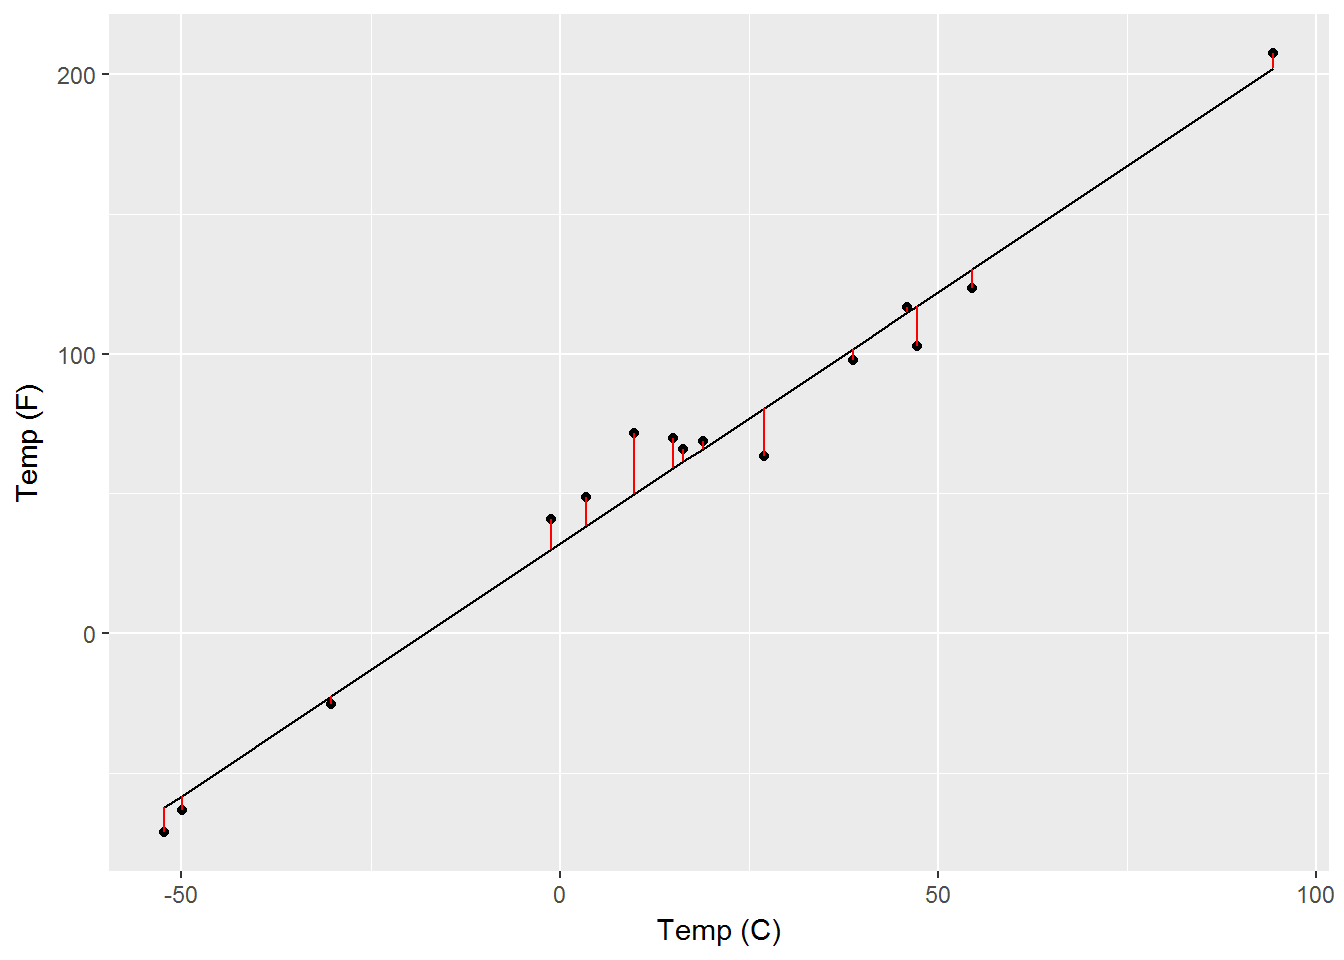
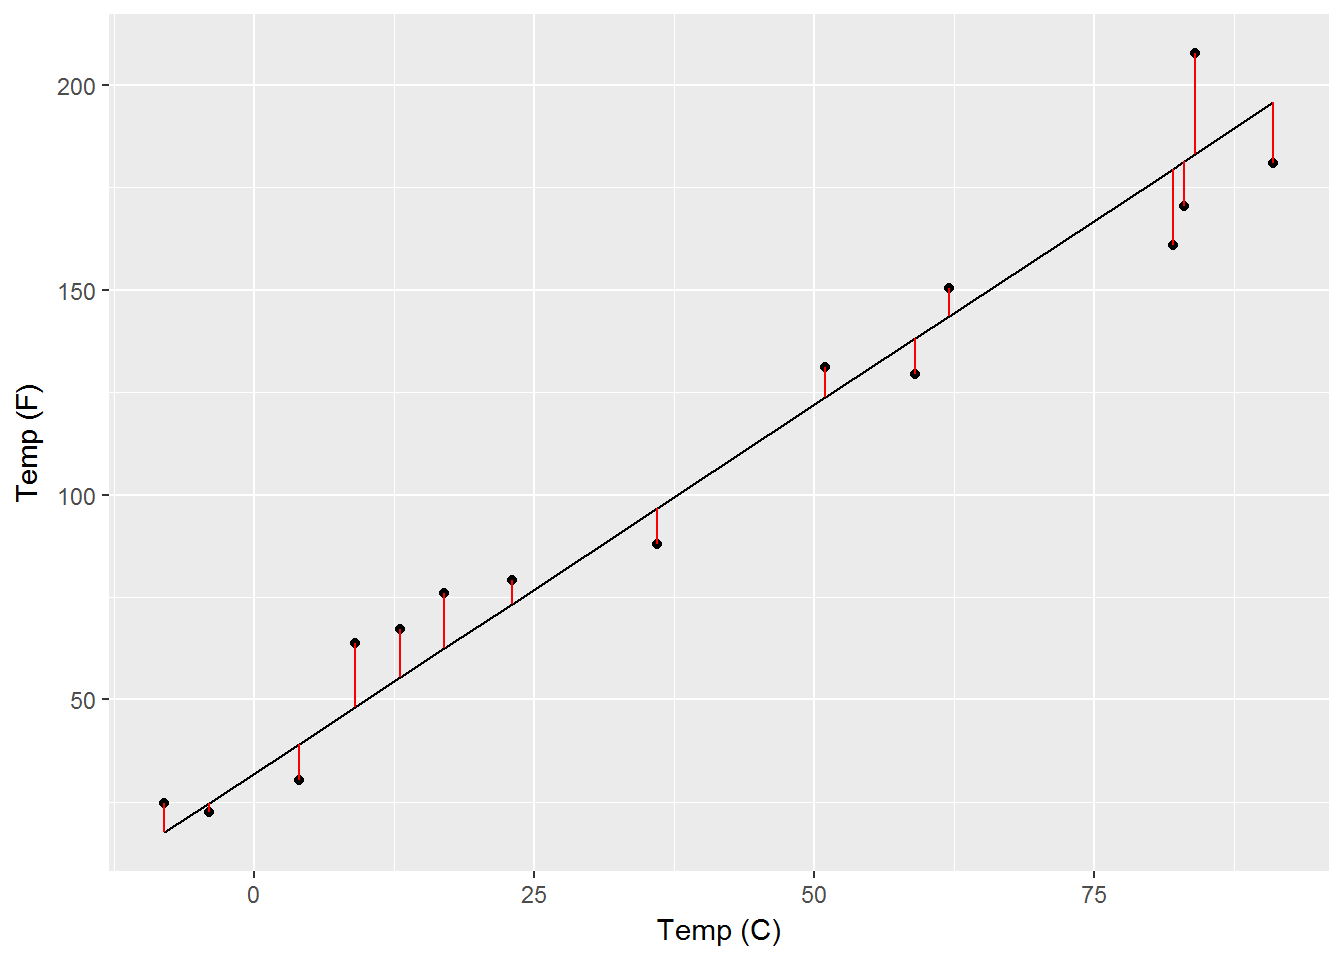
rewrote part of lin reg intro

diff --git a/smml/_book/lin-reg.html b/smml/_book/lin-reg.html
@@ -25,7 +25,7 @@
 <meta name="author" content="Michoel Snow">
 
 
-<meta name="date" content="2017-07-27">
+<meta name="date" content="2017-07-28">
 
   <meta name="viewport" content="width=device-width, initial-scale=1">
   <meta name="apple-mobile-web-app-capable" content="yes">
@@ -100,7 +100,9 @@ code > span.in { color: #60a0b0; font-weight: bold; font-style: italic; } /* Inf
 
 <ul class="summary">
 <li class="chapter" data-level="1" data-path="index.html"><a href="index.html"><i class="fa fa-check"></i><b>1</b> bibliography: [book.bib, packages.bib]</a></li>
-<li class="chapter" data-level="2" data-path="lin-reg.html"><a href="lin-reg.html"><i class="fa fa-check"></i><b>2</b> Linear Regression</a></li>
+<li class="chapter" data-level="2" data-path="lin-reg.html"><a href="lin-reg.html"><i class="fa fa-check"></i><b>2</b> Linear Regression</a><ul>
+<li class="chapter" data-level="2.1" data-path="lin-reg.html"><a href="lin-reg.html#overview"><i class="fa fa-check"></i><b>2.1</b> Overview</a></li>
+</ul></li>
 <li class="chapter" data-level="3" data-path="literature.html"><a href="literature.html"><i class="fa fa-check"></i><b>3</b> Literature</a></li>
 </ul>
 
@@ -121,108 +123,86 @@ code > span.in { color: #60a0b0; font-weight: bold; font-style: italic; } /* Inf
             <section class="normal" id="section-">
 <div id="lin_reg" class="section level1">
 <h1><span class="header-section-number">2</span> Linear Regression</h1>
-<p>Almst all supervised models relate one or more input variables, <span class="math inline">\(X_1,X_2, \ldots , X_p\)</span>, to an output variable, <span class="math inline">\(Y\)</span>. The general equation for a supervised model takes the form <span class="math display">\[Y = f(X)\]</span>. The simplest method with which to combine the inputs <span class="math inline">\(X\)</span> is through a linear combination, namely addition. When dealing with a numerical output, we’ll deal with a different type of output in chapter <strong>NEED CHAPTER NAME</strong>, this problem is termed regression. Before tackling the general form of the model let’s take a look at the example where there is only a single input variable, termed simple linear regression. Plotted in the figure below are 5 random temperature values read from a celsius thermometer on the X axis and from a farenheit thermometer on the Y axis.</p>
+<div id="overview" class="section level2">
+<h2><span class="header-section-number">2.1</span> Overview</h2>
+<p>Almst all supervised models relate one or more input variables, <span class="math inline">\(X_1,X_2, \ldots , X_p\)</span>, to an output variable, <span class="math inline">\(Y\)</span>. The general equation for a supervised model takes the form <span class="math display">\[Y = f(X)\]</span>. The simplest method with which to combine the inputs <span class="math inline">\(X\)</span> is through a linear combination, namely addition. When dealing with a numerical output, we’ll deal with a different type of output in chapter <strong>NEED CHAPTER NAME</strong>, this problem is termed regression, hence the name linear regression. Before tackling the general form of the model let’s take a look at the example where there is only a single input variable, termed simple linear regression. Plotted in the figure below are 15 random temperature values read from an accurate celsius thermometer on the X axis and from a slightly less accurate farenheit thermometer on the Y axis.</p>
 <p><img src="_main_files/figure-html/TmpPnt-1.png" width="672" style="display: block; margin: auto;" /></p>
-<p>There is an obvious a linear relationship between the values on the X and Y axes, i.e., as the temperature in Celsius increases the temperature in Farenheit increases a proportional amount, and if you remember the formula to convert between the two is <span class="math inline">\(F = \dfrac{9}{5}\cdot C + 32\)</span>. Converting this formulation into our nomenclature we almost get the general formula for simple linear regression <span class="math display">\[Y \approx a_0 + a_1 \cdot X_1\]</span> I am writing the relationship between the input and output variables as approxiamtely, because the readings were not completely accurate. This is very easy to see if I overlay on top of the previous plot a line generated from the equation <span class="math inline">\(F = \dfrac{9}{5}\cdot C + 32\)</span>.</p>
+<p>There is an obvious a linear relationship between the values on the X and Y axes, i.e., as the temperature in Celsius increases the temperature in Farenheit increases a proportional amount, and if you remember the formula to convert between the two is <span class="math inline">\(F = \dfrac{9}{5}\cdot C + 32\)</span>. Converting this formulation into our nomenclature gives the formula for simple linear regression</p>
+<span class="math display" id="eq:SimpLinReg">\[\begin{equation} 
+  Y = a_0 + a_1 \cdot X_1
+  \tag{2.1}
+\end{equation}\]</span>
+<p>Where <span class="math inline">\(Y\)</span> is the output variable, <span class="math inline">\(X\)</span> is input variable and <span class="math inline">\(a_0\)</span> and <span class="math inline">\(a_1\)</span> are the coefficients. However, this equation is not actually correct, as the Farneheit value are not precisely equation to <span class="math inline">\(\dfrac{9}{5}\)</span> times the Celsius vcalues plus 32. This is very easy to see if I overlay a line generated from the equation <span class="math inline">\(F = \dfrac{9}{5}\cdot C + 32\)</span> on top of the previous plot.</p>
 <p><img src="_main_files/figure-html/TmpLin-1.png" width="672" style="display: block; margin: auto;" /></p>
-<p>The red bars from the points to the line represent the distance from the real values to the measured values, also know as the error. I can rewrite the general formula for linear regression and this time include a term, <span class="math inline">\(\epsilon\)</span> by standard notation, to represent the error. <span class="math inline">\(\epsilon\)</span> is a variable with the same number of values as <span class="math inline">\(X\)</span> and <span class="math inline">\(Y\)</span>, as seen in the table below</p>
-<div class="sourceCode"><pre class="sourceCode r"><code class="sourceCode r">knitr::<span class="kw">kable</span>(tmp)</code></pre></div>
+<p>The red bars from the points to the line represent the distance from the real values to the measured values, also know as the error. So I can rewrite Equation <a href="lin-reg.html#eq:SimpLinReg">(2.1)</a> in one of two ways to be accurate. The first is to include an error term, <span class="math inline">\(\epsilon\)</span> by standard notation, whose values are the lengths of the individual red lines.</p>
+<span class="math display" id="eq:SimpLinRegErr">\[\begin{equation} 
+  Y = a_0 + a_1 \cdot X_1 + \epsilon
+  \tag{2.2}
+\end{equation}\]</span>
+<p><span class="math inline">\(\epsilon\)</span> is a variable with the same number of values as <span class="math inline">\(X\)</span> and <span class="math inline">\(Y\)</span>, as seen in the table below</p>
 <table>
 <thead>
 <tr class="header">
-<th align="right">cel</th>
-<th align="right">frn</th>
-<th align="right">frn2</th>
+<th align="left">Celsius</th>
+<th align="left">Farenheit (actual)</th>
+<th align="left">Farenheit (recorded)</th>
+<th align="left">Error</th>
 </tr>
 </thead>
 <tbody>
 <tr class="odd">
-<td align="right">54.541501</td>
-<td align="right">130.17470</td>
-<td align="right">123.60889</td>
+<td align="left">-8</td>
+<td align="left">17.6</td>
+<td align="left">24.8</td>
+<td align="left">7.2</td>
 </tr>
 <tr class="even">
-<td align="right">3.477857</td>
-<td align="right">38.26014</td>
-<td align="right">48.66767</td>
+<td align="left">-4</td>
+<td align="left">24.8</td>
+<td align="left">22.4</td>
+<td align="left">-2.4</td>
 </tr>
 <tr class="odd">
-<td align="right">-52.267340</td>
-<td align="right">-62.08121</td>
-<td align="right">-71.02274</td>
+<td align="left">4</td>
+<td align="left">39.2</td>
+<td align="left">30.4</td>
+<td align="left">-8.8</td>
 </tr>
 <tr class="even">
-<td align="right">38.777848</td>
-<td align="right">101.80013</td>
-<td align="right">97.68231</td>
+<td align="left">9</td>
+<td align="left">48.2</td>
+<td align="left">63.8</td>
+<td align="left">15.6</td>
 </tr>
 <tr class="odd">
-<td align="right">45.987064</td>
-<td align="right">114.77671</td>
-<td align="right">116.60301</td>
+<td align="left">13</td>
+<td align="left">55.4</td>
+<td align="left">67.2</td>
+<td align="left">11.8</td>
 </tr>
 <tr class="even">
-<td align="right">18.918064</td>
-<td align="right">66.05252</td>
-<td align="right">68.61918</td>
-</tr>
-<tr class="odd">
-<td align="right">94.405064</td>
-<td align="right">201.92912</td>
-<td align="right">207.38147</td>
-</tr>
-<tr class="even">
-<td align="right">26.987155</td>
-<td align="right">80.57688</td>
-<td align="right">63.35551</td>
-</tr>
-<tr class="odd">
-<td align="right">-30.286192</td>
-<td align="right">-22.51515</td>
-<td align="right">-25.38810</td>
-</tr>
-<tr class="even">
-<td align="right">47.310429</td>
-<td align="right">117.15877</td>
-<td align="right">102.69111</td>
-</tr>
-<tr class="odd">
-<td align="right">15.028121</td>
-<td align="right">59.05062</td>
-<td align="right">69.72771</td>
-</tr>
-<tr class="even">
-<td align="right">-49.967493</td>
-<td align="right">-57.94149</td>
-<td align="right">-62.96396</td>
-</tr>
-<tr class="odd">
-<td align="right">-1.110684</td>
-<td align="right">30.00077</td>
-<td align="right">40.90162</td>
-</tr>
-<tr class="even">
-<td align="right">16.362983</td>
-<td align="right">61.45337</td>
-<td align="right">66.04090</td>
-</tr>
-<tr class="odd">
-<td align="right">9.868674</td>
-<td align="right">49.76361</td>
-<td align="right">71.45237</td>
+<td align="left">17</td>
+<td align="left">62.6</td>
+<td align="left">75.9</td>
+<td align="left">13.3</td>
 </tr>
 </tbody>
 </table>
-<span class="math display" id="eq:SimpLinReg">\[\begin{equation} 
-  Y = a_0 + a_1 \cdot X_1 + \epsilon
-  \tag{2.1}
+<p>The other way or rewriting Equation <a href="lin-reg.html#eq:SimpLinReg">(2.1)</a> is by admitting that the output variable, as well as the coefficients are just estimates of their true values, which I can represent by giving them tiny hats.</p>
+<span class="math display" id="eq:SimpLinRegHat">\[\begin{equation} 
+  \hat{Y} = \hat{a}_0 + \hat{a}_1 \cdot X_1
+  \tag{2.3}
 \end{equation}\]</span>
+<p>the difference between So to be more precise, I can rewrite to include the fact that the output values, which in this case is the temperature in Farenheit, is actually an estimate of</p>
+<p>I can rewrite the general formula for linear regression and this time include a term, <span class="math inline">\(\epsilon\)</span> by standard notation, to represent the error.</p>
+<p>which is almost get the general formula for simple linear regression. I am writing the relationship between the input and output variables as approxiamtely, because the readings were not completely accurate.</p>
+<p>as applied to our data is not completely which is almost get the general formula for simple linear regression. I am writing the relationship between the input and output variables as approxiamtely, because the readings were not completely accurate.</p>
 <p>Unlike our previous equation this time our equation <a href="lin-reg.html#eq:SimpLinReg">(2.1)</a> has an equals sign is the general formula for simple linear regression. When more input variables are added the simple part of the term is dropped and it is referred to as general regression and takes the form</p>
 <span class="math display" id="eq:LinReg">\[\begin{equation} 
-  Y = a_0 + a_1\cdot X_1 + a_2\cdot X_2 + \ldots a_p\cdot X_p + \epsilon
-  \tag{2.2}
+  Y = a_0 + a_1\cdot X_1 + a_2\cdot X_2 + \ldots a_p\cdot X_p + \epsilon = a_0 + \sum\limits_{i=1}^p(a_i\cdot X_i) + \epsilon
+  \tag{2.4}
 \end{equation}\]</span>
-<p>Hence, models which take the form are termed linear regression. Just as in simple linear regression, the <span class="math inline">\(a\)</span>’s in front of the input variables control the slope of the line, <span class="math inline">\(a_0\)</span> controls the intercept of the line, and <span class="math inline">\(\epsilon\)</span> is the error as measured by the distance from the points on the right hand side to the true values on the left hand side of the equation.</p>
+<p>Just as in simple linear regression, the <span class="math inline">\(a\)</span>’s in front of the input variables control the slope of the line, <span class="math inline">\(a_0\)</span> controls the intercept of the line. Taken together the <span class="math inline">\(a\)</span>’s are referred to as the coefficients. <span class="math inline">\(\epsilon\)</span> is the error as measured by the distance from the points on the right hand side to the true values on the left hand side of the equation.</p>
 <p>You can label chapter and section titles using <code>{#label}</code> after them, e.g., we can reference Chapter <a href="#intro"><strong>??</strong></a>. If you do not manually label them, there will be automatic labels anyway, e.g., Chapter <a href="#methods"><strong>??</strong></a>.</p>
 <p>Figures and tables with captions will be placed in <code>figure</code> and <code>table</code> environments, respectively.</p>
 <div class="sourceCode"><pre class="sourceCode r"><code class="sourceCode r"><span class="kw">par</span>(<span class="dt">mar =</span> <span class="kw">c</span>(<span class="dv">4</span>, <span class="dv">4</span>, .<span class="dv">1</span>, .<span class="dv">1</span>))
@@ -394,6 +374,7 @@ Figure 2.1: Here is a nice figure!
 </table>
 <p>You can write citations, too. For example, we are using the <strong>bookdown</strong> package <span class="citation">[@R-bookdown]</span> in this sample book, which was built on top of R Markdown and <strong>knitr</strong> <span class="citation">[@xie2015]</span>.</p>
 
+</div>
 </div>
             </section>
 
